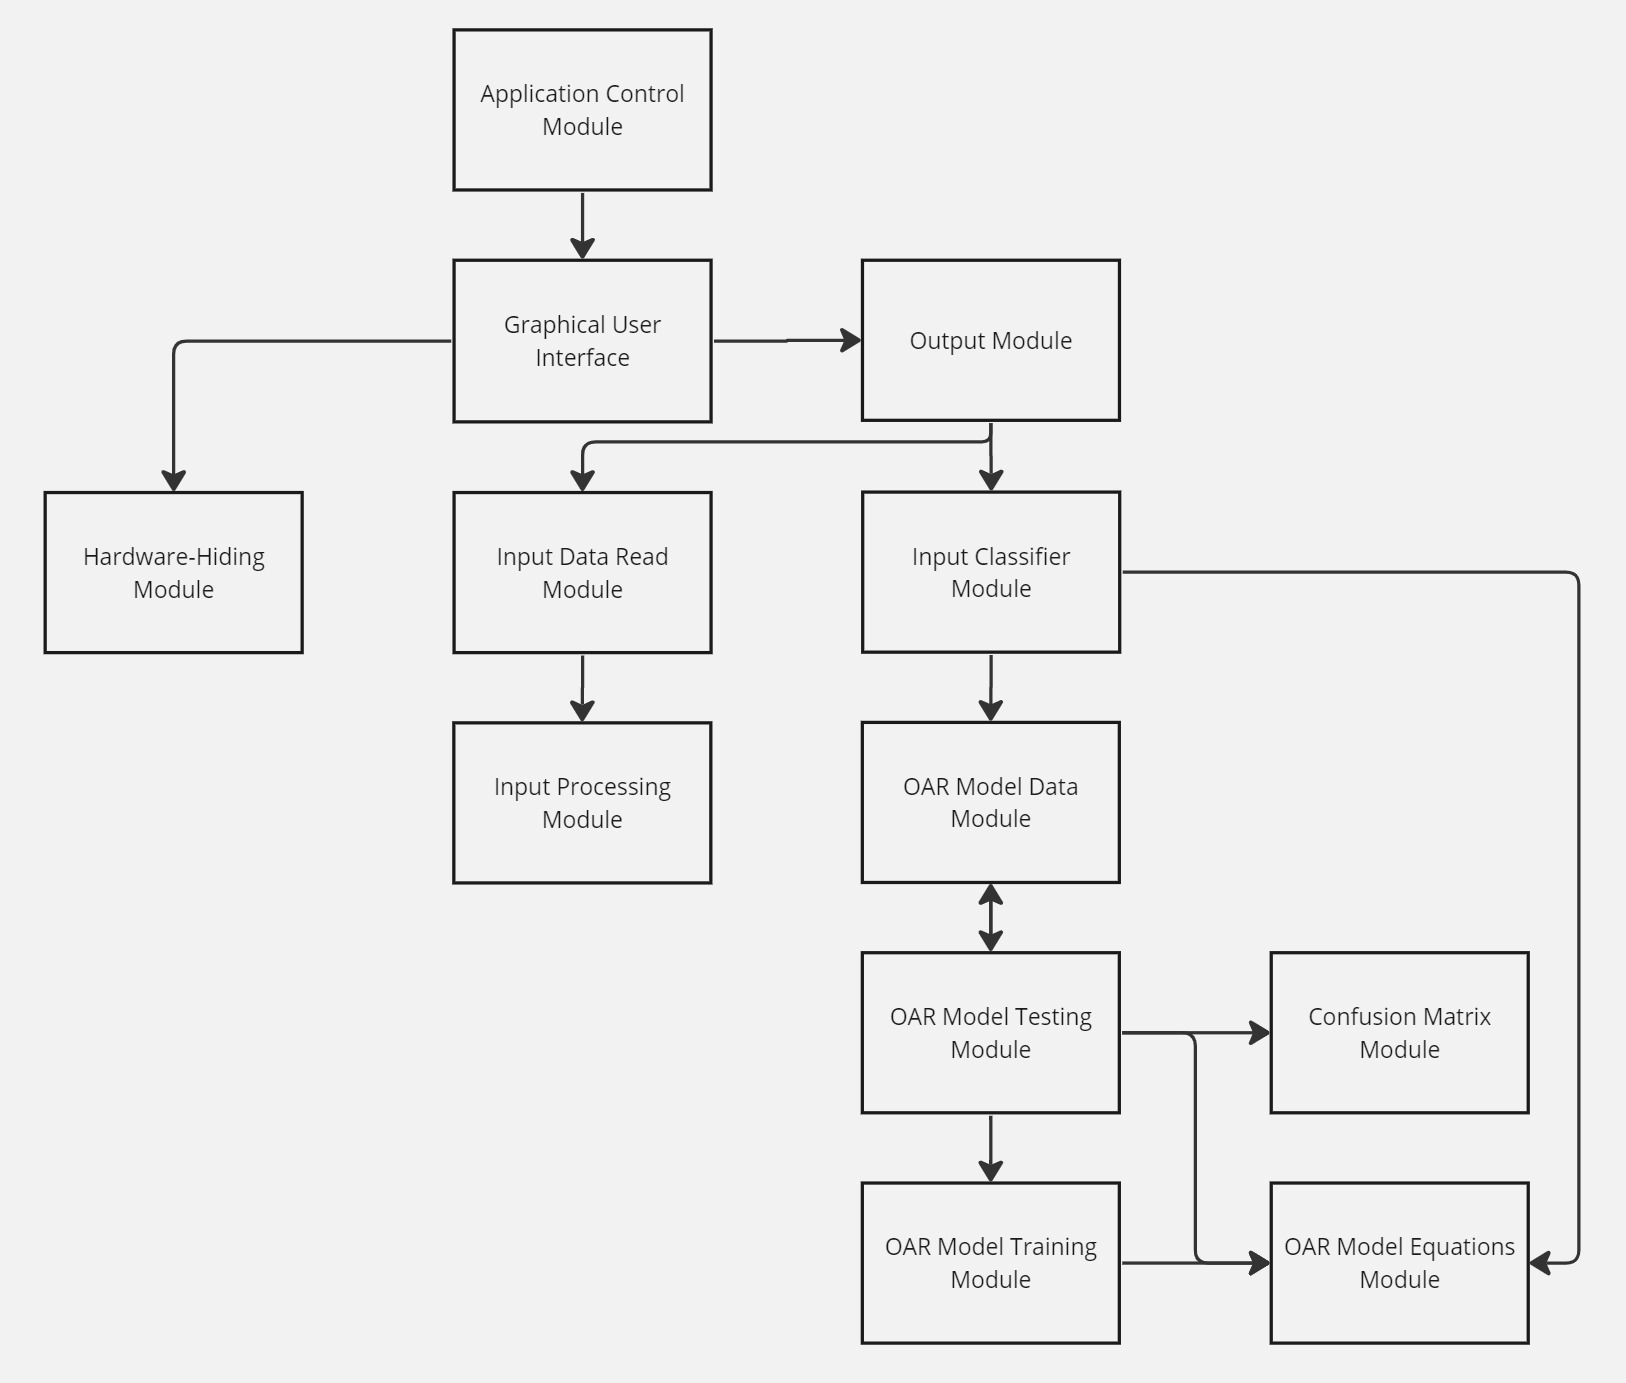
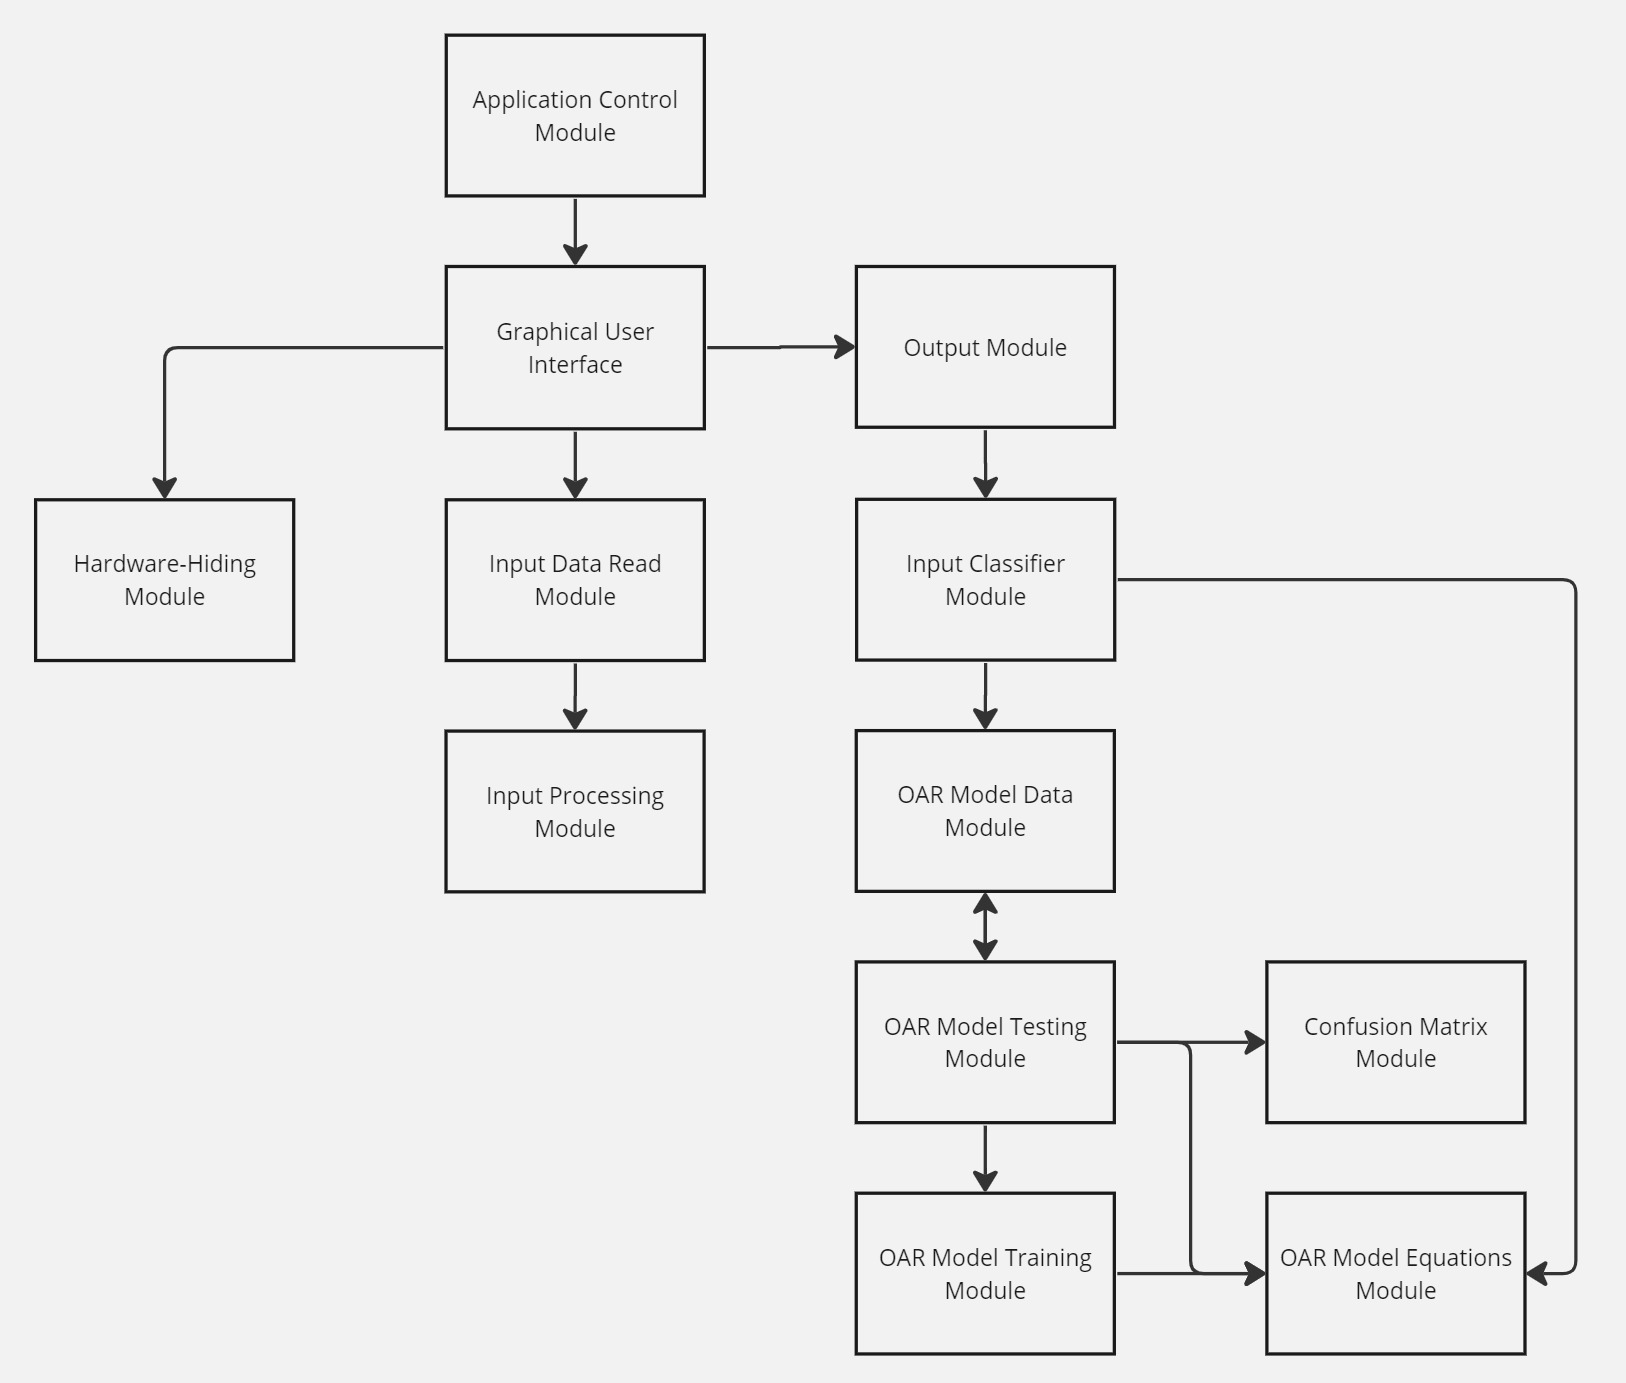
Update MG and MIS

diff --git a/docs/Design/SoftDetailedDes/MIS.tex b/docs/Design/SoftDetailedDes/MIS.tex
@@ -229,7 +229,6 @@ None.
 \subsection{Uses}
 
 \begin{itemize}
-  \item Input Data Read Module Specification (\ref{ModuleIDR})
   \item Input Classifier Module Specification (\ref{ModuleIC})
 \end{itemize}
 
@@ -248,7 +247,7 @@ None.
 \hline
 \textbf{Name} & \textbf{In} & \textbf{Out} & \textbf{Exceptions} \\
 \hline
-\code{output} & - & \code{inputImage} ($\mathbf{I}_{x,y}$), \code{resultLabel} (String), \code{resultConf} (String) & - \\
+\code{output} & \code{inputImage} ($\mathbf{I}_{x,y}$) & \code{inputImage} ($\mathbf{I}_{x,y}$), \code{resultLabel} (String), \code{resultConf} (String) & - \\
 \hline
 \end{tabular}
 \end{center}
@@ -271,7 +270,6 @@ The input image is valid.
 
 \noindent \code{output}():
 \begin{itemize}
-\item transition: Calls Input Data Read module \ref{ModuleIDR} to take an input image to be classified.
 \item output: The \code{inputImage} as ($\mathbf{I}_{x,y}$) and the predicted label \code{resultLabel} and
  confidence in the classification \code{resultConf} as strings, to be used by the GUI module \ref{ModuleGUI}.
 \end{itemize}
@@ -832,6 +830,7 @@ None.
 
 \begin{itemize}
   \item Hardware-Hiding Module  
+  \item Input Data Read Module (\ref{ModuleIDR})
   \item Output Module (\ref{ModuleO})
 \end{itemize}
 
@@ -890,7 +889,7 @@ None.
 \noindent \code{gui}():
 \begin{itemize}
 \item transition: Sets up user control event handlers (i.e., mouse clicks or drag, button presses, text input change, ...) 
-as needed for the user input. Calls the Output Module \ref{ModuleO} to classify the input
+as needed for the user input. Calls the Input Data Read Module \ref{ModuleIDR} to accept a base image and Output Module \ref{ModuleO} to classify the input
 image. The input image and output results are then pushed to the \code{displayWindow}.
 \end{itemize}
 

diff --git a/docs/Design/SoftArchitecture/MG.tex b/docs/Design/SoftArchitecture/MG.tex
@@ -421,7 +421,7 @@ requirements and between the modules and the anticipated changes.
 \textbf{Req.} & \textbf{Modules}\\
 \midrule
 R1 & \mref{mHH}, \mref{mIDR}, \mref{mGUI}\\
-R2 & \mref{mIP}\\
+R2 & \mref{mIDR}, \mref{mIP}, \mref{mGUI}\\
 R3 & \mref{mOMD}, \mref{mOME}, \mref{mOMTr}, \mref{mOMTs}, \mref{mCMX}\\
 R4 & \mref{mOU}, \mref{mIC}, \mref{mGUI}\\
 R5 & \mref{mOU}, \mref{mIC}, \mref{mGUI}\\
@@ -438,15 +438,15 @@ R5 & \mref{mOU}, \mref{mIC}, \mref{mGUI}\\
 \textbf{AC} & \textbf{Modules}\\
 \midrule
 \acref{acHardware} & \mref{mHH}\\
-\acref{acInput} & \mref{mIDR}, \mref{mIP}\\
-\acref{acInput2} & \mref{mIDR}, \mref{mIP}\\
-\acref{acInputParams} & \mref{mIDR}, \mref{mIP}\\
+\acref{acInput} & \mref{mIDR}\\
+\acref{acInput2} & \mref{mIDR}\\
+\acref{acInputParams} & \mref{mIDR}\\
 \acref{acPreprocess} & \mref{mIP}\\
-\acref{acModel} & \mref{mOMD}, \mref{mOME}, \mref{mOMTr}, \mref{mOMTs}, \mref{mCMX}\\
+\acref{acModel} & \mref{mOME}, \mref{mOMTr}, \mref{mOMTs}\\
 \acref{acCalc} & \mref{mIC}\\
 \acref{acFlow} & \mref{mAC}\\
 \acref{acOutput} & \mref{mOU}\\
-\acref{acOutput2} & \mref{mOU}, \mref{mIC}\\
+\acref{acOutput2} & \mref{mOU}\\
 \acref{acGui} & \mref{mGUI}\\
 \bottomrule
 \end{tabular}
